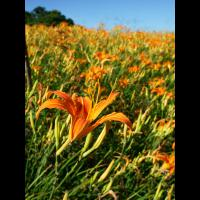
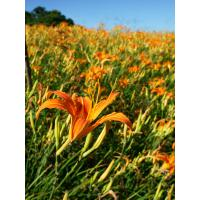
圖片加邊框

Changed region(s): [[0.87, 0.0, 1.0, 1.0], [0.0, 0.0, 0.15, 1.0]]

diff --git a/image.php b/image.php
@@ -6,22 +6,24 @@
  * 4.進行圖形處理
  *   ->圖形縮放
  *   ->圖形加邊框
- *   ->圖形驗證碼
+ *   ->圖形驗證碼
  * 5.輸出檔案
  */
-if(!empty($_FILES['photo']['tmp_name'])){
-    echo "檔名：".$_FILES['photo']['name']."<br>";
-    echo "格式：".$_FILES['photo']['type']."<br>";
-    echo "大小：".round($_FILES['photo']['size']/1024)."kb<br>";
-    move_uploaded_file($_FILES['photo']['tmp_name'],"./img/".$_FILES['photo']['name']);
+
+ if(!empty($_FILES['photo']['tmp_name'])){
+    echo "檔名:".$_FILES['photo']['name']."<br>";
+    echo "格式:".$_FILES['photo']['type']."<br>";
+    echo "大小:".round($_FILES['photo']['size']/1024)."kb<br>";
+    move_uploaded_file($_FILES['photo']['tmp_name'],'./img/'.$_FILES['photo']['name']);
     $filename="./img/".$_FILES['photo']['name'];
+
     $src_info=[
         'width'=>0,
-        'height'=>0
+        'height'=>0,
     ];
     $dst_info=[
         'width'=>0,
-        'height'=>0
+        'height'=>0,
     ];
     switch($_FILES['photo']['type']){
         case "image/jpeg":
@@ -36,10 +38,11 @@ if(!empty($_FILES['photo']['tmp_name'])){
         default:
         echo "只接受圖形檔案";
         exit();
+
     }
     $src_info['width']=imagesx($src_img);
     $src_info['height']=imagesy($src_img);
-    $src_info['rate']=imagesy($src_img)/imagesx($src_img);//計算寬高比
+    $src_info['rate']=imagesy($src_img)/imagesx($src_img);
     if($src_info['rate']<=1){
         $src_info['direction']='橫向';
     }else{
@@ -49,10 +52,11 @@ if(!empty($_FILES['photo']['tmp_name'])){
     $dst_img=imagecreatetruecolor(200,200);
     $dst_info['width']=200;
     $dst_info['height']=200;
-    $white=imagecolorallocate($dst_img,255,255,255); //定義顏色
-    imagefill($dst_img,0,0,$white);//填入顏色
-}
 
+    $white=imagecolorallocate($dst_img,255,255,255);
+    $dark=imagecolorallocate($dst_img,0,0,0);
+    imagefill($dst_img,0,0,$white);
+ }
 
 
 ?>
@@ -63,45 +67,49 @@ if(!empty($_FILES['photo']['tmp_name'])){
     <meta name="viewport" content="width=device-width, initial-scale=1.0">
     <meta http-equiv="X-UA-Compatible" content="ie=edge">
     <title>圖形處理練習</title>
-    <link rel="stylesheet" href="style.css">
     <style>
-    div{
-        width: 500px;
-        margin: 10px auto;
-        text-align: center;
-    }
+        div{
+            width:500px;
+            margin:10px auto;
+            text-align:center;
+        }
     </style>
+    <link rel="stylesheet" href="style.css">
 </head>
 <body>
 <h1 class="header">圖形處理練習</h1>
 <!---建立檔案上傳機制--->
 <form action="?" method="post" enctype="multipart/form-data">
-<input type="file" name="photo" accept="image/gif,image/jpeg,image/png">
-<input type="submit" value="上傳">
+    <input type="file" name="photo">
+    <input type="submit" value="上傳">
 </form>
 <h3>原始圖形</h3>
 <hr>
 <div>
-<img src="<?="./img/".$_FILES['photo']['name'];?>" style="width:200px;">
+ <img src="<?="./img/".$_FILES['photo']['name'];?>" style="width:250px">
 </div>
 <!----縮放圖形----->
 <h3>縮放圖形</h3>
+<hr>
 <?php
 
 if(isset($src_img) && isset($dst_img)){
 
     if($src_info['direction']=='橫向'){
+
         $dst_height=$dst_info['height']*$src_info['rate'];
         $dst_width=$dst_info['width'];
         $dst_y=($dst_info['height']-$dst_height)/2;
         $dst_x=0;
+        
     }else{
         $dst_height=$dst_info['height'];
         $dst_width=$dst_info['width']*(1/$src_info['rate']);
         $dst_y=0;
         $dst_x=($dst_info['width']-$dst_width)/2;
-    }
 
+    }
+    
     imagecopyresampled($dst_img,$src_img,$dst_x,$dst_y,0,0,$dst_width,$dst_height,$src_info['width'],$src_info['height']);
     $dst_path="./dst/".$_FILES['photo']['name'];
     imagejpeg($dst_img,$dst_path);
@@ -109,10 +117,70 @@ if(isset($src_img) && isset($dst_img)){
     echo "<div>";
     echo "<img src='$dst_path'>";
     echo "</div>";
-}
-?>
-<!----圖形加邊框----->
 
+}
+imagedestroy($dst_img);
+
+?>
+<h3>圖形加邊框</h3>
+<hr>
+
+<!----圖形加邊框----->
+<?php
+    $dst_img=imagecreatetruecolor(200,200);
+    $dst_info['width']=200;
+    $dst_info['height']=200;
+
+    imagefill($dst_img,0,0,$dark);
+$border=5;
+$padding=10;
+if($src_info['direction']=='橫向'){
+    $bor_width=($dst_info['width']-$padding*2);
+    $bor_height=($dst_info['height']-$padding*2)*$src_info['rate'];
+    $dst_y=10+((($dst_info['height']-$padding*2)-$bor_height)/2);
+    $dst_x=10;
+
+}else{
+    $bor_width=($dst_info['width']-$padding*2)*(1/$src_info['rate']);
+    $bor_height=($dst_info['height']-$padding*2);
+    $dst_y=10;
+    $dst_x=10+((($dst_info['width']-$padding*2)-$bor_width)/2);
+}
+echo "width:".$bor_width."<br>";
+echo "height:".$bor_height."<br>";
+echo "x:".$dst_x."<br>";
+echo "y:".$dst_y."<br>";
+
+//壓底層框線
+$img_bor=imagecreatetruecolor($bor_width,$bor_height);
+imagefill($img_bor,0,0,$white);
+imagecopyresampled($dst_img,$img_bor,$dst_x,$dst_y,0,0,$bor_width,$bor_height,$bor_width,$bor_height);
+
+if($src_info['direction']=='橫向'){
+    $dst_height=($dst_info['height']-$padding*2-$border*2)*$src_info['rate'];
+    $dst_width=($dst_info['width']-$padding*2-$border*2);
+    $dst_y=($dst_info['height']-$dst_height)/2;
+    $dst_x=$padding+$border;
+    
+}else{
+    $dst_height=($dst_info['height']-$padding*2-$border*2);
+    $dst_width=($dst_info['width']-$padding*2-$border*2)*(1/$src_info['rate']);
+    $dst_y=$padding+$border;
+    $dst_x=($dst_info['width']-$dst_width)/2;
+
+}
+
+imagecopyresampled($dst_img,$src_img,$dst_x,$dst_y,0,0,$dst_width,$dst_height,$src_info['width'],$src_info['height']);
+
+
+$dst_path="./dst/bor_".$_FILES['photo']['name'];
+imagejpeg($dst_img,$dst_path);
+
+echo "<div>";
+echo "<img src='$dst_path'>";
+echo "</div>";
+
+?>
 
 <!----產生圖形驗證碼----->
 
